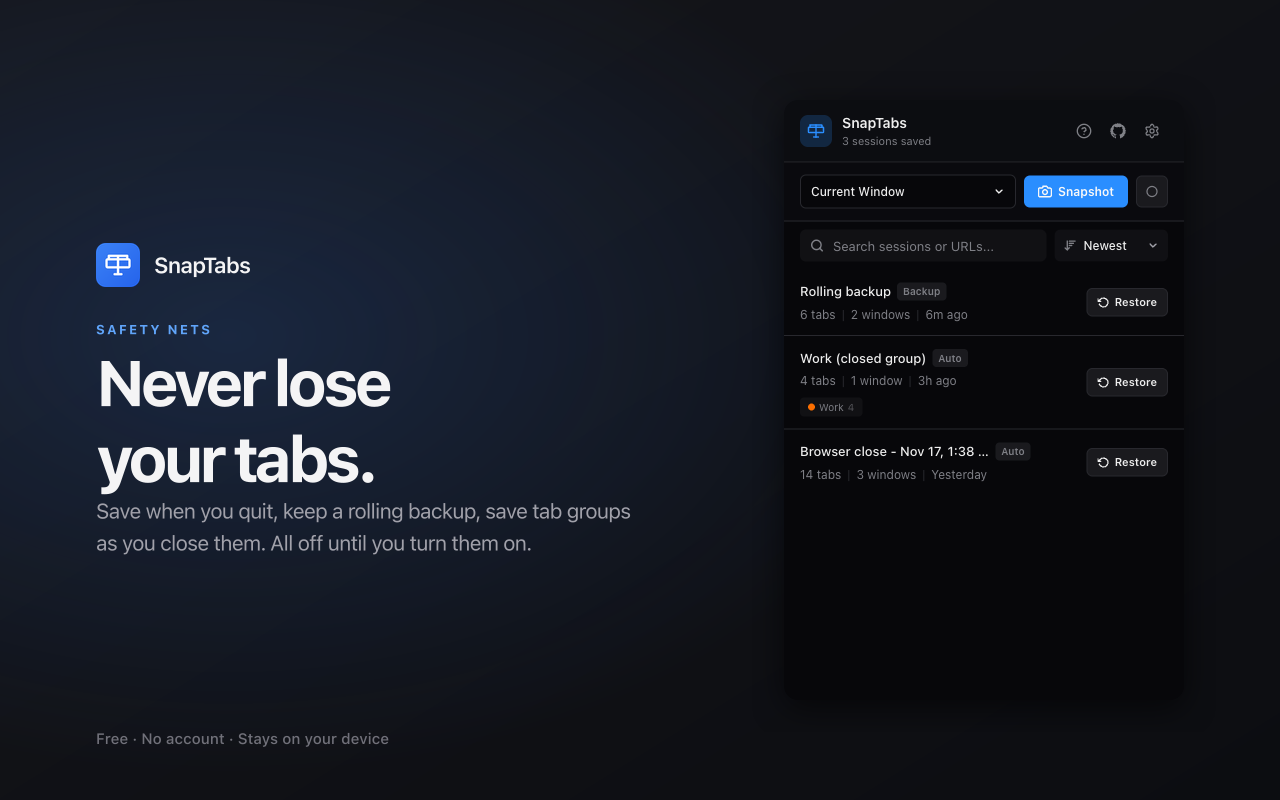
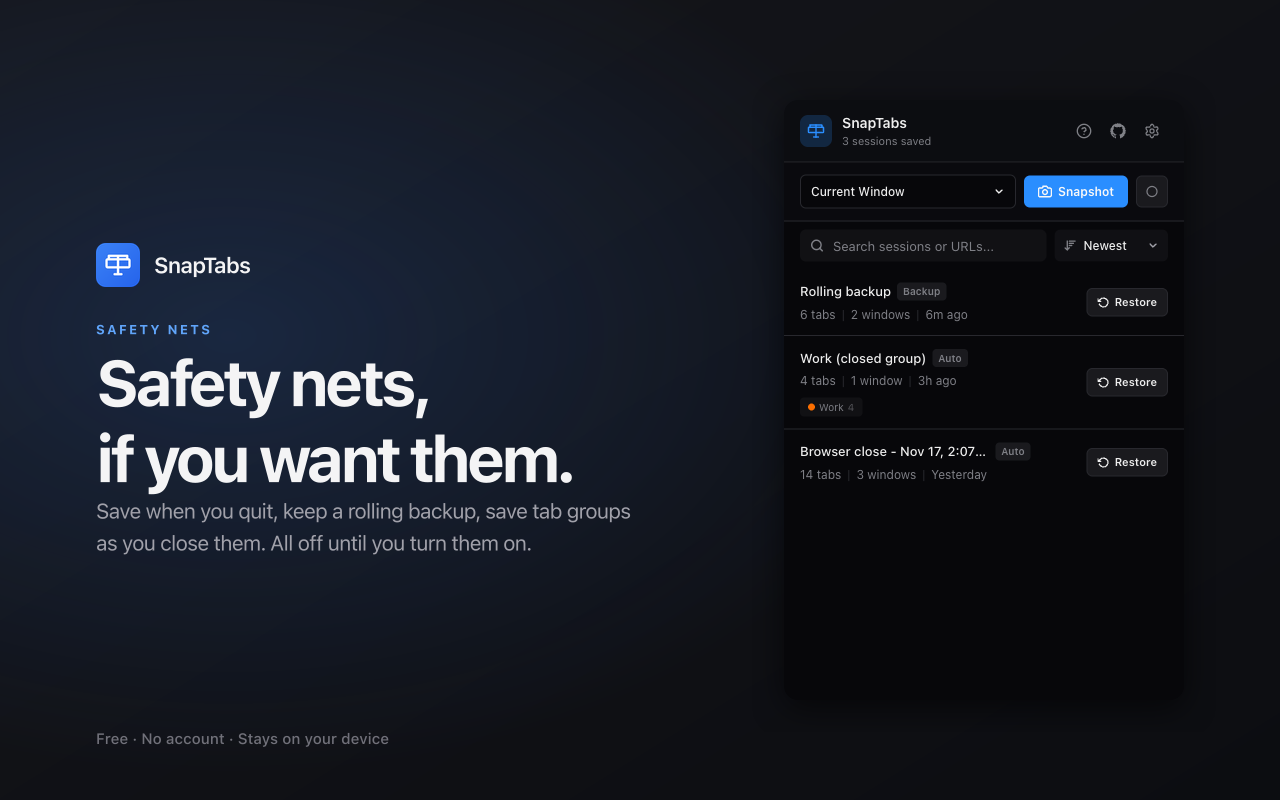
Fix issues from the independent v1.10 release review
Code:
- A closed group needs at least 2 tabs closed together (D18): a group
  emptied slowly one tab at a time saved its last tab as a 1-tab
  "closed group", because the cache shrinks between removals.
- Tabs or groups dragged between windows (onAttached/onDetached) now
  refresh both windows' cache, so closing a moved group is detected.
- A delayed cache refresh is cancelled when its window closes, and
  refreshWindowCache ignores windows that are gone, so it can't
  resurrect an empty cache entry ahead of the browser-close handler.
- Replacing a closed group's earlier copy keeps its pin.

Copy and docs:
- Listing draft no longer claims SnapTabs doesn't touch "browsing
  history" (Chrome's warning for `tabs` says exactly that); explains it,
  adds the Restore button / skip-duplicates points and the address-bar
  fallback to Google.
- STORE_LISTING.md drops its stale description copy (it promised a
  right-click restore that doesn't exist) and points at the single
  ready-to-paste draft.
- PRIVACY.md lists every automatic save, including closed groups and
  incognito close.
- Restore toast claims match reality (D19: the popup closes when tabs
  open, so the skipped count is shown only when nothing opens); sleep-tip
  wording fixed; welcome hero says "a few quick settings".
- Gallery image 4 headline is the honest "Safety nets, if you want them";
  captures park the mouse so no card is shown hovered.

Verified: chrome.management.getPermissionWarningsByManifest returns the
[…]

Changed region(s): [[0.0625, 0.4375, 0.4375, 0.625]]

diff --git a/tests/closedGroups.test.ts b/tests/closedGroups.test.ts
@@ -48,11 +48,29 @@ describe('closed-group detection', () => {
 
   it('keeps groups apart and settles each once', () => {
     const t = createClosedGroupTracker();
-    t.tabRemoved(7, tab('https://a.com', 0, 7), 1, 1000);
-    t.tabRemoved(8, tab('https://x.com', 0, 8), 1, 1000);
-    expect(t.settle(7)?.length).toBe(1);
+    t.tabRemoved(7, tab('https://a.com', 0, 7), 2, 1000);
+    t.tabRemoved(8, tab('https://x.com', 0, 8), 2, 1000);
+    t.tabRemoved(7, tab('https://b.com', 1, 7), 2, 1001);
+    t.tabRemoved(8, tab('https://y.com', 1, 8), 2, 1001);
+    expect(t.settle(7)?.length).toBe(2);
     expect(t.settle(7)).toBeNull();
-    expect(t.settle(8)?.length).toBe(1);
+    expect(t.settle(8)?.length).toBe(2);
+  });
+
+  it('a group emptied slowly, one tab at a time, never saves its last tab', () => {
+    // The cache shrinks between removals, so the last tab looks like a
+    // whole 1-tab group closing (found in release review).
+    const t = createClosedGroupTracker();
+    t.tabRemoved(7, tab('https://a.com', 0), 3, 0);
+    t.tabRemoved(7, tab('https://b.com', 1), 2, 15_000);
+    t.tabRemoved(7, tab('https://c.com', 2), 1, 30_000);
+    expect(t.settle(7)).toBeNull();
+  });
+
+  it('closing the only tab of a 1-tab group is not a group close', () => {
+    const t = createClosedGroupTracker();
+    t.tabRemoved(7, tab('https://a.com', 0), 1, 0);
+    expect(t.settle(7)).toBeNull();
   });
 
   it('forgets stray removals after a while', () => {
@@ -112,4 +130,16 @@ describe('saveClosedGroup', () => {
     expect(ids).toContain('Mine (closed group)');
     expect(ids).not.toContain('Old (closed group)');
   });
+
+  it('replacing a pinned copy keeps it pinned', async () => {
+    await saveClosedGroup(closedGroupSession(group(), [tab('https://a.com', 0), tab('https://b.com', 1)], 1));
+    const [first] = await getSessions();
+    await chrome.storage.local.set({ snaptabs_sessions: [{ ...first, pinned: true }] });
+    await saveClosedGroup(closedGroupSession(group(), [tab('https://a.com', 0), tab('https://b.com', 1)], 2));
+    const sessions = await getSessions();
+    expect(sessions).toHaveLength(1);
+    expect(sessions[0].pinned).toBe(true);
+    expect(sessions[0].timestamp).toBe(2);
+  });
 });
+

diff --git a/src/entrypoints/background.ts b/src/entrypoints/background.ts
@@ -79,6 +79,8 @@ export default defineBackground(() => {
   }
 
   async function refreshWindowCache(windowId: number) {
+    // A delayed refresh can fire after its window closed; don't resurrect it.
+    if (!windowMap.has(windowId)) return;
     try {
       const { tabs, groups, tabIds } = await captureWindow(windowId);
       windowCache.set(windowId, { tabs, groups, tabIds });
@@ -185,6 +187,8 @@ export default defineBackground(() => {
   });
 
   async function handleWindowRemoved(windowId: number) {
+    clearTimeout(delayedRefresh.get(windowId));
+    delayedRefresh.delete(windowId);
     const wasIncognito = windowMap.get(windowId);
     const cap = windowCache.get(windowId);
     const cached = cap?.tabs;
@@ -260,6 +264,14 @@ export default defineBackground(() => {
       closedGroups.tabRemoved(tab.groupId, tab, groupSize, Date.now());
     }
     if (windowMap.has(info.windowId)) refreshWindowCacheSoon(info.windowId);
+  });
+
+  // Tabs (or whole groups) dragged between windows change both windows.
+  chrome.tabs.onDetached.addListener((_tabId, info) => {
+    if (windowMap.has(info.oldWindowId)) refreshWindowCacheSoon(info.oldWindowId);
+  });
+  chrome.tabs.onAttached.addListener((_tabId, info) => {
+    if (windowMap.has(info.newWindowId)) refreshWindowCacheSoon(info.newWindowId);
   });
 
   if (chrome.tabGroups?.onRemoved) {

diff --git a/src/lib/storage.ts b/src/lib/storage.ts
@@ -307,13 +307,16 @@ export async function takeBackupRestartCheck(): Promise<boolean> {
   return true;
 }
 
-// Adds a session, first removing any existing session `isSame` matches.
+// Adds a session, first removing any existing session `isSame` matches. A pin
+// on a replaced session carries over, so replacing never unpins.
 export async function replaceOrAddSession(session: Session, isSame: (s: Session) => boolean): Promise<void> {
   await withLock(KEYS.sessions, async () => {
     const result = await chrome.storage.local.get([KEYS.sessions, KEYS.settings]);
-    const sessions: Session[] = (result[KEYS.sessions] ?? []).filter((s: Session) => !isSame(s));
+    const all: Session[] = result[KEYS.sessions] ?? [];
+    const replaced = all.filter(isSame);
+    const sessions = all.filter((s) => !isSame(s));
     const settings: SnapTabsSettings = { ...DEFAULT_SETTINGS, ...result[KEYS.settings] };
-    sessions.push(session);
+    sessions.push(replaced.some((s) => s.pinned) ? { ...session, pinned: true } : session);
     enforceLimit(sessions, settings.maxSessions);
     await chrome.storage.local.set({ [KEYS.sessions]: sessions });
   });

diff --git a/src/lib/closedGroups.ts b/src/lib/closedGroups.ts
@@ -10,6 +10,9 @@ import { replaceOrAddSession } from './storage';
 // spreads the removals out, and window closes are never reported here.
 
 export const CLOSE_BURST_MS = 500;
+// A lone tab closing is never "closing a group": it's also what the last
+// step of closing a group's tabs one by one looks like (D18).
+export const MIN_GROUP_TABS = 2;
 export const SETTLE_MS = 600;
 const FORGET_MS = 10_000;
 
@@ -37,7 +40,7 @@ export function createClosedGroupTracker() {
     settle(groupId: number): SavedTab[] | null {
       const p = pending.get(groupId);
       pending.delete(groupId);
-      if (!p || p.tabs.length < p.groupSize || p.last - p.first > CLOSE_BURST_MS) return null;
+      if (!p || p.tabs.length < MIN_GROUP_TABS || p.tabs.length < p.groupSize || p.last - p.first > CLOSE_BURST_MS) return null;
       return p.tabs;
     },
   };

diff --git a/scripts/capture-screenshots.ts b/scripts/capture-screenshots.ts
@@ -39,6 +39,9 @@ const NO_RATING_BANNER = { [KEYS.meta]: { statsBackfilled: true, ratingPromptDon
 async function waitForPopupReady(page: import('@playwright/test').Page) {
   await page.waitForSelector('.popup', { state: 'visible' });
   await page.waitForFunction(() => !document.querySelector('.loader'), { timeout: 10_000 });
+  // Park the mouse in an empty corner so no card is captured in its hover
+  // state (the previous step's click leaves it over a card).
+  await page.mouse.move(395, 595);
   // Small settle pause so animations land before screenshot
   await page.waitForTimeout(250);
 }

diff --git a/src/entrypoints/welcome/Welcome.svelte b/src/entrypoints/welcome/Welcome.svelte
@@ -68,7 +68,7 @@
     <img src="/icon/128.png" alt="" width="56" height="56" class="hero-icon" />
     <h1>{fromHelp ? 'How to use SnapTabs' : 'SnapTabs is installed'}</h1>
     <p class="hero-sub">
-      {fromHelp ? 'Save your tabs, close them, and bring them back any time.' : "Here's how it works, plus two quick settings."}
+      {fromHelp ? 'Save your tabs, close them, and bring them back any time.' : "Here's how it works, plus a few quick settings."}
     </p>
   </header>
 

diff --git a/scripts/compose-screenshots.ts b/scripts/compose-screenshots.ts
@@ -69,7 +69,7 @@ const slides: Slide[] = [
     raw: '4-safety-nets.png',
     out: '4-safety-nets.png',
     eyebrow: 'Safety nets',
-    headline: 'Never lose\nyour tabs.',
+    headline: 'Safety nets,\nif you want them.',
     subhead: 'Save when you quit, keep a rolling backup, save tab groups as you close them. All off until you turn them on.',
   },
   {

diff --git a/CLAUDE.md b/CLAUDE.md
@@ -41,7 +41,7 @@ SnapTabs is a Chrome extension (Manifest V3) that snapshots and restores browser
 - **Sleep restored tabs** (`sleepRestoredTabs`, default true): background tabs from a restore are `chrome.tabs.discard`ed once loaded (`sleepTabs.ts`). Never discard before the navigation commits (the tab would sleep with `url: ''`); tab groups are recreated before any discard because discard can change a tab id.
 - **Rolling backup** (`autoBackupMinutes`: 0 = off / 5 / 15 / 30 / 60, default 0): `backup.ts`. A `chrome.alarms` schedule refreshes a single `isBackup` session with every normal (non-incognito) window, only when a fingerprint changed. `scheduleBackup` leaves an existing alarm with the same period alone (re-creating it on each SW start would postpone it forever). Before overwriting, the previous backup is kept as an ordinary auto-save when tabs would be lost on the first backup after a fresh browser start (crash case; flagged via `setBackupRestartCheck` in `init()`), or on a big loss (≥5 tabs and ≥ half). The backup is excluded from `maxSessions` and pruning, the duplicate-snapshot check, and browser-close recovery dedupe; imports strip `isBackup`; turning it off (`retireBackup`) turns it into a normal auto-save. Backup runs and retirement are queued in the SW (`queueBackup` / `queueRetire`) and wait for `init()`; `upsertBackup` re-checks the setting under the lock. `enforceLimit(sessions, max, protect)` never prunes sessions created by the same write (kept backup copies carry an older timestamp).
 - **Welcome page / guide** (`src/entrypoints/welcome/`): opened by `onInstalled` only when no settings were stored yet (a genuinely new user; don't trust `reason` alone). A "How SnapTabs works" card (three steps with replicas of the real Snapshot/Restore buttons) sits above the two setup steps: pin detection via `chrome.action.getUserSettings()`, and opt-in toggles for save-on-close and a 15-minute rolling backup. `welcome.html?from=help` is the same page with the heading "How to use SnapTabs"; the popup header's **?** and the Settings "How to use SnapTabs" card open it. Keep it minimal: it explains only save → close → restore (D02/D03 in `docs/decisions`). Spec: `docs/onboarding/spec.md`.
-- **Save closed tab groups** (`saveClosedGroups`, default false; `src/lib/closedGroups.ts`, spec `docs/closed-groups/spec.md`): Chrome can't show extensions a closed group, so SnapTabs saves it as it closes. `tabs.onRemoved` (not window-closing, not incognito) looks the tab up in `windowCache` by `tabIds` and feeds `createClosedGroupTracker().tabRemoved(groupId, tab, groupSize)`; `tabGroups.onRemoved` calls `settle()` after `SETTLE_MS` (600) and saves only if every tab of the group was removed within `CLOSE_BURST_MS` (500), as "<title> (closed group)". `saveClosedGroup` → `replaceOrAddSession` replaces an auto-save with the same name and URL set (D09). Cache refreshes after removals/group changes are delayed 300 ms (`refreshWindowCacheSoon`) so a whole burst is looked up against the pre-close cache, and removal handlers `await stateRestored` so a woken service worker has its cache back (D13).
+- **Save closed tab groups** (`saveClosedGroups`, default false; `src/lib/closedGroups.ts`, spec `docs/closed-groups/spec.md`): Chrome can't show extensions a closed group, so SnapTabs saves it as it closes. `tabs.onRemoved` (not window-closing, not incognito) looks the tab up in `windowCache` by `tabIds` and feeds `createClosedGroupTracker().tabRemoved(groupId, tab, groupSize)`; `tabGroups.onRemoved` calls `settle()` after `SETTLE_MS` (600) and saves only if every tab of the group, and at least `MIN_GROUP_TABS` (2), was removed within `CLOSE_BURST_MS` (500), as "<title> (closed group)" (D18: a lone tab closing is what the end of a one-by-one close looks like). Tabs moving between windows (`onAttached`/`onDetached`) refresh both windows; `handleWindowRemoved` cancels a pending delayed refresh, and `refreshWindowCache` ignores windows no longer in `windowMap`. `saveClosedGroup` → `replaceOrAddSession` replaces an auto-save with the same name and URL set (D09), keeping its pin. Cache refreshes after removals/group changes are delayed 300 ms (`refreshWindowCacheSoon`) so a whole burst is looked up against the pre-close cache, and removal handlers `await stateRestored` so a woken service worker has its cache back (D13).
 - **One-time tips** (`TipBanner.svelte`): `Meta.pendingTips` (`'firstSnapshot' | 'firstRestore'`) is filled by `recordUsage` at the 0→1 transition (first manual snapshot; first restore whose `restoreSession` return value says tabs were slept) and only once `statsBackfilled`, so pre-1.9 users never get first-snapshot advice. The popup shows `pendingTips[0]` in place of the rating banner (one banner at a time); dismissing sends `'dismissTip'`.
 - **Usage stats** (`snaptabs_meta`, local only, not exported): `UsageStats` counts `manualSnapshots` (popup, shortcut, context menu), `recordings`, `autoSaves` (browser close, incognito close, recovered), `restores` split into `restoresOfManualSessions` / `restoresOfAutoSaves`, plus `firstSeenAt`. Recorded in the SW via `track()` → `recordUsage()` (failures swallowed; never break the action). `backfillUsageStats()` runs once at the top of `init()` to seed counts from existing sessions for pre-1.9 users (`statsBackfilled`). Use these for any future "show X after Y" logic.
 - **Rating prompt**: `shouldShowRatingPrompt` = not dismissed and (≥ `RATING_PROMPT_AFTER_MANUAL_SNAPSHOTS` (5) manual snapshots or ≥ `RATING_PROMPT_AFTER_RESTORES` (3) restores). The popup shows `RatingPrompt.svelte` once; rating or dismissing sets `ratingPromptDone`. Settings > Feedback also has a permanent "Enjoying SnapTabs?" link (`data-testid="rate-link"`) that sets `ratingPromptDone` too. Both skipped on Edge.
@@ -157,7 +157,7 @@ npx sharp-cli -i src/assets/icon.svg -o src/public/icon/16.png -- resize 16 16
 
 ### Unit Tests (Vitest)
 
-Tests use **Vitest** with a Chrome API mock (`tests/setup.ts`, including `createEvent()` mocks with `emit` for `tabs.onUpdated` / `alarms.onAlarm`, and `alarms`). 276 tests across 12 files:
+Tests use **Vitest** with a Chrome API mock (`tests/setup.ts`, including `createEvent()` mocks with `emit` for `tabs.onUpdated` / `alarms.onAlarm`, and `alarms`). 279 tests across 12 files:
 - `tests/types.test.ts`: `uuid()`, `formatSessionName()`, constants, `DEFAULT_SETTINGS` shape (12 fields), domain helpers (`normalizeDomain`, `getHostname`, `urlMatchesDomain`, `isExcludedUrl`) with subdomain/substring/case edge cases.
 - `tests/storage.test.ts`: sessions CRUD, settings (including `warnOnDuplicateSnapshot`, `excludedDomains`, and backward compat with legacy stored settings), recordings, window map, window cache (tabs + groups), pending-close buffer, pinning (sort + enforce), import/export (valid/invalid payloads, collisions, limit enforcement).
 - `tests/tabs.test.ts`: `isRestorable()`, `toSavedTab()`, capture, snapshot (including excluded-domain filtering, subdomain matching, post-filter `hasIncognitoTabs` recompute, empty-after-filter), restore logic, `urlSetSignature()`, `findDuplicateSession()`, `splitByWindow()` (windowId + legacy heuristic), multi-window restore (current vs new windows, no interleaving, regular-before-incognito, focus, which tabs are slept).
@@ -172,7 +172,7 @@ Coverage: storage.ts 100%, tabs.ts ~70% (uncovered lines are Chrome group recrea
 
 ### E2E Tests (Playwright)
 
-End-to-end tests use **Playwright** to launch real Chromium (or Brave via `--project=brave`) with the extension loaded. 105 tests across 14 files in `e2e/`:
+End-to-end tests use **Playwright** to launch real Chromium (or Brave via `--project=brave`) with the extension loaded. 107 tests across 14 files in `e2e/`:
 
 ```
 e2e/
@@ -201,6 +201,7 @@ e2e/cdp/                            # Real-Chromium checks over raw CDP (`npm ru
     ├── sleep-restore.mjs           # Multi-window restore + tab sleeping + groups + sleep tip + wake-on-click + snapshot while asleep
     ├── backup.mjs                  # Backup alarm: on/off, survives SW restart, real alarm firing
     ├── backup-restart.mjs          # Crash case: pre-restart backup kept after a browser restart
+    ├── no-network.mjs              # Logging proxy: viewing a saved session makes no request to the saved sites; favicons from /_favicon/
     └── closed-groups.mjs           # Closed tab groups: whole-group close saved; ungroup/one-by-one/window close/setting off ignored; stopped SW; replace on re-close; restore recreates the group
 ```
 
@@ -211,7 +212,8 @@ The `brave` project runs the same suite against the Brave binary (`npm run test:
 Key patterns:
 - **Fixture** (`e2e/fixtures/extension.ts`): Uses `chromium.launchPersistentContext` with `--load-extension` to load the built extension. Waits for the install-time welcome tab and closes it (failing if it never opens), applies `E2E_BASE_SETTINGS`, extracts the extension ID from the service worker URL, navigates to `chrome-extension://<id>/popup.html`.
 - **Tab sleeping vs Playwright**: Playwright loses its browser connection whenever a tab is discarded, so the Playwright suite runs with `sleepRestoredTabs: false` (`E2E_BASE_SETTINGS`, re-applied by `seedSettings`/`clearStorage`). Anything that discards tabs is tested in `e2e/cdp/`.
-- **CDP checks on Brave**: `BROWSER_PATH="/Applications/Brave Browser.app/Contents/MacOS/Brave Browser" npm run test:e2e:cdp`. Brave only reloads a discarded tab once it's visible, so focus the window before activating a tab.
+- **CDP checks on Brave**: `BROWSER_PATH="/Applications/Brave Browser.app/Contents/MacOS/Brave Browser" npm run test:e2e:cdp`. Brave only reloads a discarded tab once it's visible, so focus the window before activating a tab; headless Brave never shows a window, so `sleep-restore.mjs` skips (and says so) its wake-on-click step there. Run Brave headed to cover it.
+- **Install warnings**: `chrome.management.getPermissionWarningsByManifest()` (callable from an extension page) returns the exact warnings for a manifest; v1.9 and v1.10 return the same two (`favicon` is covered by `tabs`).
 - **Chrome Web Store tabs** aren't surfaced as Playwright pages; assert on them via `chrome.tabs.query` in the service worker.
 - **Unpacked-extension updates** can't be simulated by `chrome.runtime.reload()` (the extension disappears) or by relaunching with changed files (Chrome keeps the old service worker and reports `reason: 'install'`). For an upgrade test, relaunch the same profile after deleting its `Default/Service Worker` directory.
 - **Storage seeding** (`e2e/helpers/storage.ts`): Evaluates `chrome.storage.local.set()` in the service worker context to pre-populate test data.

diff --git a/STORE_LISTING.md b/STORE_LISTING.md
@@ -53,7 +53,7 @@ Run through this for every CWS submission so the listing never lags the source a
 7. **Upload to the CWS Developer Dashboard**:
    - Item page → Package tab → upload the new zip.
    - Store listing tab → Graphic assets → re-upload the 5 screenshots from `screenshots/store/` in file order: `1-restore`, `2-how-it-works`, `3-tab-groups`, `4-safety-nets`, `5-search` (D17; the first two matter most).
-   - Store listing tab → paste the updated long description / features / FAQ from this file.
+   - Store listing tab → paste `docs/growth/listing-draft.txt` into Description (see **Long description**).
    - Privacy practices tab → if the permissions changed, add a justification for each new one (see **Privacy practices tab** below).
    - Save draft, then Submit for review.
 8. **Merge the release PR** to `main` once submitted.
@@ -74,93 +74,15 @@ Set by `description` in `wxt.config.ts`; changing it needs a release.
 
 ## Category
 
-Productivity
-
----
+Productivity › Workflow & Planning (already set in the dashboard).
 
 ## Long description
 
-SnapTabs saves every tab in your Chrome window with one click so you can close everything and bring it back later.
+The description lives in [`docs/growth/listing-draft.txt`](docs/growth/listing-draft.txt): plain ASCII, ready to paste into the dashboard's **Description** field as is. It is the only copy; edit it there (an older copy here went stale and was removed in v1.10). Copy it to the clipboard with a UTF-8 locale so nothing gets garbled:
 
-Open 40 tabs for a research session, save them, close them. Open 12 tabs for tomorrow's standup, save them, close them. Now your browser is quiet and nothing is lost. When you need them, one click restores every tab, pinned, grouped, and in the right window. Restored tabs sleep until you click them, so even a huge session opens instantly.
-
-Unlike other tab managers, SnapTabs keeps tab group names and colors intact, captures incognito tabs, and auto-saves your session when you quit Chrome — with a recovery-snapshot fallback so a crash or an aggressive browser shutdown doesn't cost you your work.
-
-Everything lives on your device. No accounts. No cloud sync. No network requests.
-
-## Features
-
-**One-click snapshot**
-Save the current window or every open window. Name the session, or let SnapTabs timestamp it. Restore from the popup or the right-click menu.
-
-**Duplicate snapshot warning**
-About to save tabs that match your most recent session? SnapTabs asks before creating a copy. Compares URL sets, ignoring order, fragments, and trailing slashes. Turn off in Settings if you'd rather every click save unconditionally.
-
-**Tab groups, preserved**
-Group names, group colors, collapsed state. All of it comes back exactly how you left it — on manual snapshots and on auto-saves when you quit the browser.
-
-**Incognito support**
-Flip the switch in Chrome to let SnapTabs run in incognito, and your private tabs are captured and restored to an incognito window automatically.
-
-**Auto-snapshot on browser close**
-Turn it on in Settings, and the next time you quit Chrome with Cmd+Q or close the last window, your tabs are captured as a "Browser close" session. Multi-window quits are combined into a single session. If the browser kills the extension during shutdown (more common in Brave than Chrome), SnapTabs falls back to a recovery snapshot kept on disk, so your tabs come back on next launch either way. Off by default so nothing is saved without your explicit opt-in.
-
-**Rolling backup**
-Turn it on and SnapTabs keeps one always-fresh backup of your open tabs, refreshed every 5, 15, 30, or 60 minutes. If Chrome crashes, or you close a big window by mistake, the previous backup is kept as its own session so you can bring those tabs back. Never includes incognito windows. Off by default.
-
-**Excluded domains**
-List domains you never want captured — banking, email, internal tools. Tabs from those domains are skipped in snapshots, recordings, and auto-saves. Subdomains match the parent rule, so adding `github.com` also excludes `api.github.com`.
-
-**Session pinning**
-Pin the sessions you rely on. Pinned sessions stay at the top of the list and are never pruned, even when storage fills up.
-
-**Live recording**
-Hit record, start browsing. Every new tab you open is captured in real time with URL dedup, so you can stop recording whenever the research trail ends and save the whole path.
-
-**Omnibox search**
-Type `st` in Chrome's address bar, press space, type a query. SnapTabs searches every tab across every saved session and opens the one you pick. No popup, no clicks.
-
-**Import and export**
-Download every session as a JSON file for backup or to move to another computer. Load the file on the other side and everything is restored, with duplicate-import handling built in.
-
-**Search and sort your sessions**
-Filter by session name, tab title, or URL — works across thousands of saved tabs. Reorder the list by newest, oldest, name, or most tabs from the sort menu next to the search box. Pinned sessions always stay on top.
-
-**Keyboard shortcut**
-`Alt+Shift+S` saves all tabs without opening the popup.
-
-**Flexible restore**
-Restore into the current window or a fresh one. Sessions saved from several windows come back as several windows. Background tabs sleep after restoring and wake when you click them, so big sessions don't slow Chrome down. Auto-delete the session after restore, or keep it. Incognito tabs go to an incognito window when the setting is on.
-
-**Storage built in**
-10 MB quota, visible progress bar, configurable session limit from 1 to 500. Oldest auto-saves are pruned first. Pinned sessions never get pruned.
-
-## Who it's for
-
-- Researchers saving topic-based browsing sessions and returning to them weeks later
-- Developers juggling three project workspaces in parallel
-- Students organizing readings by subject instead of by "which tab was I on"
-- Anyone who has 60+ tabs open right now and feels it
-
-## Privacy
-
-- All data stays on your device
-- No cloud sync, no backend service
-- No analytics, no tracking, no outbound requests
-- No account required
-- If you uninstall, an optional one-question feedback form opens. Nothing is sent with it
-- Open source. Every line of code is auditable on GitHub
-
-## Permissions (six, all minimum-necessary)
-
-- **tabs**: read the tabs you have open, create tabs when you restore a session
-- **tabGroups**: preserve and recreate tab group names and colors
-- **storage**: keep sessions and settings on your device
-- **contextMenus**: the "Save all tabs" item on the right-click icon menu
-- **alarms**: schedule the optional rolling backup
-- **favicon**: show your saved tabs' site icons from the browser's local icon cache, so no request leaves your browser
-
-No network permission. No history permission. No cookie or identity access.
+```bash
+LANG=en_US.UTF-8 pbcopy < docs/growth/listing-draft.txt
+```
 
 ## Privacy practices tab (developer dashboard)
 
@@ -184,31 +106,3 @@ Not shown on the listing. The dashboard's **Privacy practices** tab asks for a s
 
 **Data usage:** unchanged by this release. The extension still transmits no user data. The uninstall form is a Google Form the browser opens after uninstall; anything in it is typed and submitted voluntarily by the person, and the extension attaches nothing to it.
 
-## FAQ
-
-**Does SnapTabs send my browsing data anywhere?**
-No. Storage is local, and SnapTabs makes no network requests of its own: even the site icons in your saved sessions come from your browser's local icon cache. You can verify this in Chrome's network inspector, or in the source on GitHub.
-
-**What happens to my tabs if Chrome (or Brave) crashes?**
-Turn on "Save on browser close" in Settings (it's off by default). While it's on, every window's tabs land in a combined "Browser close" session when the last window closes — including the multi-window Cmd+Q case. If the browser kills the extension's service worker mid-shutdown before the save lands (Brave is more aggressive about this than Chrome), SnapTabs falls back to a continuously-updated snapshot it keeps in local storage. On the next browser start, that snapshot is promoted to a "Browser close (recovered)" session. Either way your tabs come back. You can also turn on the rolling backup, which keeps your open tabs saved every few minutes and holds on to the pre-crash copy after a restart. For critical tab sets, also take a manual snapshot (`Alt+Shift+S`) as belt-and-braces.
-
-**Will my tab groups come back?**
-Yes. Name, color, collapsed state — on manual snapshots and on browser-close auto-saves alike. Pinned tabs come back pinned. The only thing SnapTabs cannot restore is the exact window position, because Chrome does not expose that to extensions.
-
-**Can I sync my sessions across devices?**
-Not automatically. Use Settings > Data > Export to download a JSON file, then Import on the other machine.
-
-**How big can my library get?**
-10 MB local storage and up to 500 sessions, configurable. Expect to comfortably hold thousands of tabs across hundreds of sessions before hitting the cap. The Settings panel shows you a live usage bar.
-
-**Does it work in Chromium-based browsers like Brave or Arc?**
-Yes, any Chromium browser that supports Manifest V3. The v1.5.0 release specifically hardened browser-close reliability on Brave, where the extension's service worker can be terminated more aggressively during shutdown than in Chrome. Firefox requires a separate build that isn't shipped today.
-
-**Is it really free?**
-Yes. No paid tier. The code is MIT-licensed on GitHub.
-
-## Open source
-
-Source code: https://github.com/threatner/SnapTabs
-
-Bug reports and feature requests: https://github.com/threatner/SnapTabs/issues

diff --git a/docs/decisions/README.md b/docs/decisions/README.md
@@ -23,3 +23,5 @@ This register starts with v1.10. Earlier choices live in `CHANGELOG.md` and `CLA
 | D15 | Session cards get a visible Restore button, and restoring into the current window skips URLs already open there (with a count in the toast). No setting. | User decision 2026-11-18 (approved scope A) | Restore was hover-only; duplicates on restore match "didn't restore correctly" answers and the "skip duplicates" request. Rejected: a new setting (more to explain). |
 | D16 | Store name "SnapTabs - Save Tabs & Session Manager" and summary "Session manager and tab saver: save all open tabs in one click, restore them later with tab groups intact. Free, no account, local." | User decision 2026-11-18 | ASO research: title keywords decide ranking at this size; SnapTabs ranks for none today. Accepted cost: possible small loss on the old "Save & Restore Browser Tabs" phrase (user: "I think it's fine"). Rejected: "Session Manager & Tab Saver" (less natural), keeping the old name. |
 | D17 | Gallery order: outcome, Save/Close/Restore, tab groups, safety nets (all off by default), search; footer "Free - No account - Stays on your device". Small promo tile: icon + "SnapTabs" + "Save tabs. Restore later." | User decision 2026-11-18 (approved scope A) | ASO plan: lead with the outcome, drop both Settings screenshots, make the search-result tile legible at half size. |
+| D18 | A closed group counts only if at least 2 of its tabs close together. | Code review 2026-11-18 | Release review found that a group emptied slowly one tab at a time saved its last tab as a 1-tab "closed group" (the cache shrinks between removals); closing a lone tab looks identical. Cost: a genuine 1-tab group close isn't saved. Amends D11. |
+| D19 | The restore toast's skipped count is only guaranteed when nothing opens ("All these tabs are already open"); when tabs open, the popup closes as the first tab is created, so copy and docs don't promise the count. | Code review 2026-11-18 | Popup closes on tab creation (CLAUDE.md constraint). Rejected: a queued "last restore" note for the next popup open (more state for little value). Amends D15. |

diff --git a/docs/v1.10-growth/spec.md b/docs/v1.10-growth/spec.md
@@ -12,7 +12,7 @@ SnapTabs is not in the top 10 for any core store search (verified 2026-11-18); t
 | --- | --- |
 | R1. No network for favicons | Favicons in the popup come only from Chrome's local favicon cache (`/_favicon/` with the `favicon` permission). Proven by a real-browser check through a logging proxy: opening session details makes zero network requests. No new install warning (the `tabs` permission supersedes `favicon`'s, documented). |
 | R2. Restore in one click | Every session card shows a visible **Restore** button (not hover-only) that restores the session. |
-| R3. Skip tabs already open | Restoring into the current window skips tabs whose URL (fragment- and trailing-slash-insensitive) is already open in that window. The toast says how many were skipped ("Restored 18 tabs, 4 already open"); if every tab is already open, nothing is created and the toast says so. New windows have nothing to skip. |
+| R3. Skip tabs already open | Restoring into the current window skips tabs whose URL (fragment- and trailing-slash-insensitive) is already open in that window. If every tab is already open, nothing is created and the toast says so. (When some tabs open, the popup closes as the first one is created, so the skipped count is only shown when the popup stays open; D19.) New windows have nothing to skip. |
 | R4. New store name and summary | Manifest `name` = "SnapTabs - Save Tabs & Session Manager", `description` = "Session manager and tab saver: save all open tabs in one click, restore them later with tab groups intact. Free, no account, local." |
 | R5. New gallery | `npm run screenshots` produces five 1280×800 images in the ASO order (outcome first, no Settings screenshots), each with the footer "Free - No account - Stays on your device". |
 | R6. Readable small promo tile | The 440×280 tile shows only the icon, "SnapTabs" and "Save tabs. Restore later.", legible at half size. |

diff --git a/docs/closed-groups/spec.md b/docs/closed-groups/spec.md
@@ -28,7 +28,7 @@ Chrome gives extensions no way to read a group after it's closed (documented: `c
 | --- | --- |
 | R1. Opt-in setting | Settings > Auto-Save has "Save tab groups when you close them", off by default. The welcome page's auto-save step offers the same switch. |
 | R2. Save on a whole-group close | With R1 on, closing a whole tab group in a normal window saves a session with exactly that group's tabs (URLs, titles, order) and the group's name, colour and collapsed state, named "<group name> (closed group)" ("Unnamed group (closed group)" if it had no name), marked Auto. |
-| R3. Only real closes | No session is saved when: the group is ungrouped (tabs stay open); its tabs are closed one at a time (the removals span more than 500 ms); its window or the browser closes; the window is incognito; the setting is off. |
+| R3. Only real closes | No session is saved when: the group is ungrouped (tabs stay open); its tabs are closed one at a time (the removals span more than 500 ms), or fewer than 2 tabs close together (D18); its window or the browser closes; the window is incognito; the setting is off. |
 | R4. Survives a sleeping service worker | Closing a group while SnapTabs' service worker is stopped still saves it. |
 | R5. No pile-up | Closing the same group again with the same tabs replaces the earlier copy instead of adding another. A different set of tabs makes a new session. |
 | R6. Respects existing rules | Excluded domains are skipped (nothing saved if nothing is left), non-restorable tabs are kept like any snapshot, the session counts toward the limit and is pruned like other auto-saves, and it counts as an auto-save in usage stats. |
